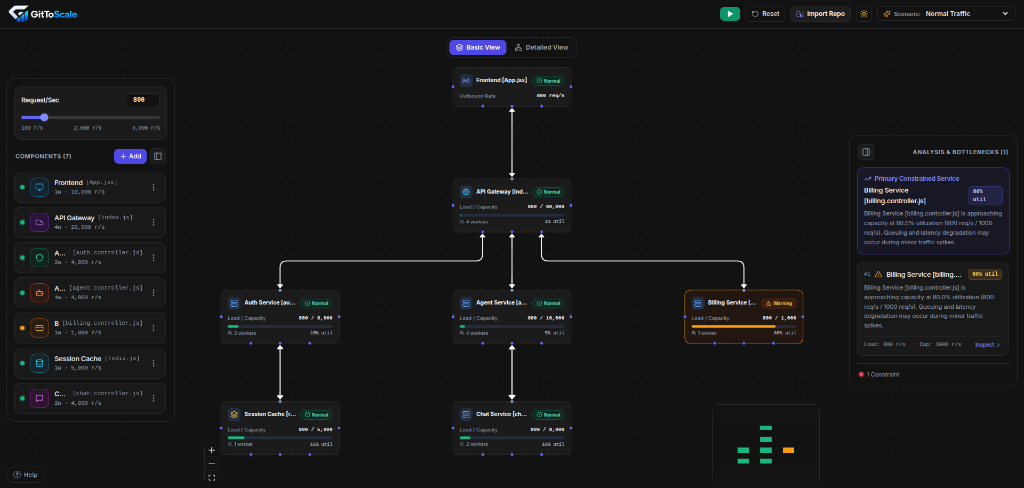
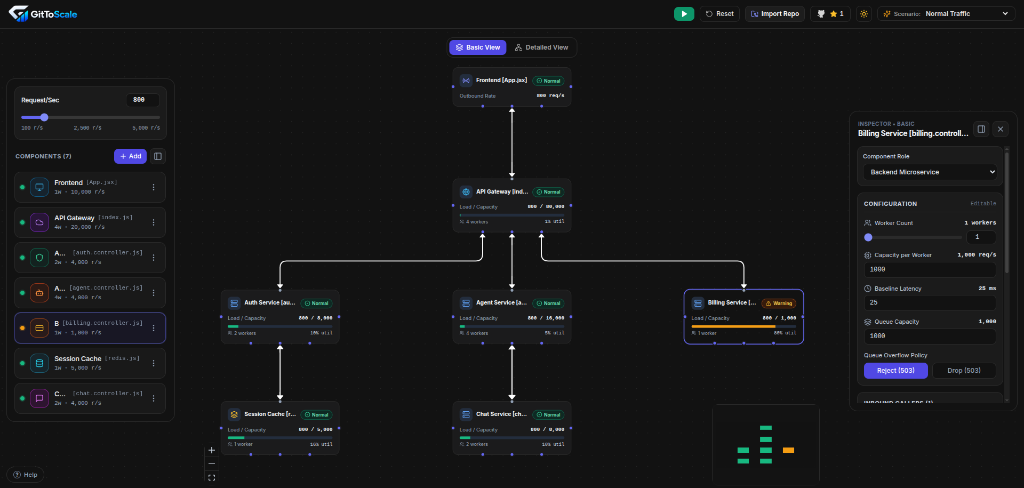
Refactor code structure for improved readability and maintainability

diff --git a/frontend/src/components/LandingPage.tsx b/frontend/src/components/LandingPage.tsx
@@ -15,6 +15,8 @@ import {
   Layers,
   ShieldCheck,
   Compass,
+  ChevronLeft,
+  ChevronRight,
 } from 'lucide-react';
 import { Fotter } from './Fotter';
 import { GitHubStarButton } from './GitHubStarButton';
@@ -189,32 +191,160 @@ function HeroDiagram() {
   );
 }
 
+const DEMO_SLIDES = [
+  {
+    id: 'basic',
+    label: 'Basic View',
+    tag: '7 Microservices',
+    url: 'gittoscale://demo/basic-view',
+    image: '/demo-basic.png',
+    description: 'Interactive microservice DAG with live flow rate propagation and worker capacity metrics',
+  },
+  {
+    id: 'detailed',
+    label: 'Detailed Fleet',
+    tag: '23 Services',
+    url: 'gittoscale://demo/detailed-fleet',
+    image: '/demo-detailed.png',
+    description: 'Multi-tier enterprise fleet with automated bottleneck ranking and queue overflow diagnosis',
+  },
+  {
+    id: 'import',
+    label: 'AI Ingestion',
+    tag: 'GitHub Scanner',
+    url: 'gittoscale://demo/ai-repo-scanner',
+    image: '/demo-import.png',
+    description: 'AI-assisted architecture extraction directly from GitHub repositories into simulation nodes',
+  },
+];
+
 function Demo({ onLaunch }: { onLaunch: () => void }) {
+  const [activeSlide, setActiveSlide] = useState(0);
+  const current = DEMO_SLIDES[activeSlide];
+
+  const handlePrev = (e: React.MouseEvent) => {
+    e.stopPropagation();
+    setActiveSlide((prev) => (prev === 0 ? DEMO_SLIDES.length - 1 : prev - 1));
+  };
+
+  const handleNext = (e: React.MouseEvent) => {
+    e.stopPropagation();
+    setActiveSlide((prev) => (prev === DEMO_SLIDES.length - 1 ? 0 : prev + 1));
+  };
+
   return (
-    <div
-      onClick={onLaunch}
-      className="relative w-full aspect-video overflow-hidden cursor-pointer group"
-    >
-      <img
-        src="/demo-preview.png"
-        alt="GitToScale simulator preview"
-        className="w-full h-full object-cover object-top select-none"
-        draggable={false}
-      />
-      <div className="absolute inset-0 bg-gradient-to-t from-black/40 via-transparent to-transparent pointer-events-none" />
-      <div className="absolute inset-0 bg-black/0 group-hover:bg-black/35 transition-colors duration-300 flex items-center justify-center pointer-events-none">
-        <motion.div
-          animate={{ scale: [1, 1.07, 1] }}
-          transition={{ repeat: Infinity, duration: 2.4, ease: 'easeInOut' }}
-          className="opacity-0 group-hover:opacity-100 transition-opacity duration-300 flex h-16 w-16 items-center justify-center rounded-full bg-white/90 shadow-xl"
-        >
-          <Play className="ml-1 h-7 w-7 fill-slate-900 text-slate-900" />
-        </motion.div>
+    <div className="w-full flex flex-col bg-white dark:bg-[#121214]">
+      {/* Top Controls & View Switcher */}
+      <div className="flex flex-wrap items-center justify-between border-b border-slate-200 dark:border-neutral-800 bg-slate-50/90 dark:bg-[#0A0A0A]/90 px-4 py-2.5 gap-2">
+        {/* macOS Dots + Dynamic URL */}
+        <div className="flex items-center gap-2 min-w-0">
+          <div className="flex items-center gap-1.5 shrink-0">
+            <span className="h-3 w-3 rounded-full bg-rose-500/80" />
+            <span className="h-3 w-3 rounded-full bg-amber-500/80" />
+            <span className="h-3 w-3 rounded-full bg-emerald-500/80" />
+          </div>
+          <span className="ml-2 font-mono text-xs text-slate-500 dark:text-neutral-400 truncate hidden md:inline">
+            {current.url}
+          </span>
+        </div>
+
+        {/* View Switcher Tabs */}
+        <div className="flex items-center gap-1.5 p-0.5 rounded-lg bg-slate-200/60 dark:bg-neutral-900 border border-slate-200/80 dark:border-neutral-800 shrink-0">
+          {DEMO_SLIDES.map((slide, idx) => (
+            <button
+              key={slide.id}
+              type="button"
+              onClick={() => setActiveSlide(idx)}
+              className={`px-3 py-1 rounded-md text-xs font-semibold transition-all cursor-pointer ${
+                activeSlide === idx
+                  ? 'bg-white text-slate-900 shadow-xs dark:bg-[#1e1e22] dark:text-white'
+                  : 'text-slate-600 hover:text-slate-900 dark:text-neutral-400 dark:hover:text-white'
+              }`}
+            >
+              {slide.label}
+            </button>
+          ))}
+        </div>
       </div>
-      <div className="absolute bottom-4 left-0 right-0 flex justify-center opacity-0 group-hover:opacity-100 transition-opacity duration-300 pointer-events-none">
-        <span className="px-3 py-1 rounded-full bg-black/60 text-white text-xs font-medium tracking-wide">
-          Launch interactive simulator
-        </span>
+
+      {/* Main High-Resolution Image Display (Non-Video) */}
+      <div
+        onClick={onLaunch}
+        className="relative w-full overflow-hidden bg-slate-950 cursor-pointer group"
+      >
+        <AnimatePresence mode="wait">
+          <motion.img
+            key={current.id}
+            src={current.image}
+            alt={current.label}
+            initial={{ opacity: 0 }}
+            animate={{ opacity: 1 }}
+            exit={{ opacity: 0 }}
+            transition={{ duration: 0.22 }}
+            className="w-full h-auto block select-none"
+            draggable={false}
+          />
+        </AnimatePresence>
+
+        {/* Previous / Next Arrow Controls */}
+        <button
+          type="button"
+          onClick={handlePrev}
+          aria-label="Previous image"
+          className="absolute left-3 top-1/2 -translate-y-1/2 p-2 rounded-full bg-black/50 hover:bg-black/75 text-white/90 hover:text-white backdrop-blur-sm transition-all opacity-0 group-hover:opacity-100 shadow-md cursor-pointer"
+        >
+          <ChevronLeft className="w-5 h-5" />
+        </button>
+        <button
+          type="button"
+          onClick={handleNext}
+          aria-label="Next image"
+          className="absolute right-3 top-1/2 -translate-y-1/2 p-2 rounded-full bg-black/50 hover:bg-black/75 text-white/90 hover:text-white backdrop-blur-sm transition-all opacity-0 group-hover:opacity-100 shadow-md cursor-pointer"
+        >
+          <ChevronRight className="w-5 h-5" />
+        </button>
+
+        {/* Subtle hover prompt */}
+        <div className="absolute top-3 right-3 opacity-0 group-hover:opacity-100 transition-opacity duration-200 pointer-events-none">
+          <span className="px-2.5 py-1 rounded-md bg-black/60 backdrop-blur-sm text-white/90 text-[11px] font-medium">
+            Click to launch live simulator
+          </span>
+        </div>
+      </div>
+
+      {/* Image Caption & Indicator Footer */}
+      <div className="flex flex-col sm:flex-row items-center justify-between gap-3 border-t border-slate-200 dark:border-neutral-800 bg-slate-50/80 dark:bg-[#0A0A0A]/80 px-4 py-3 text-xs">
+        <div className="flex items-center gap-2 text-slate-600 dark:text-neutral-300 min-w-0">
+          <span className="font-semibold text-slate-900 dark:text-white shrink-0">
+            {current.label}
+          </span>
+          <span className="text-slate-400 dark:text-neutral-500 hidden sm:inline">·</span>
+          <span className="truncate text-slate-500 dark:text-neutral-400">
+            {current.description}
+          </span>
+        </div>
+
+        {/* Slide Indicator Dots & Counter */}
+        <div className="flex items-center gap-3 shrink-0">
+          <div className="flex items-center gap-1.5">
+            {DEMO_SLIDES.map((_, idx) => (
+              <button
+                key={idx}
+                type="button"
+                onClick={() => setActiveSlide(idx)}
+                aria-label={`Switch to slide ${idx + 1}`}
+                className={`h-2 rounded-full transition-all cursor-pointer ${
+                  activeSlide === idx
+                    ? 'w-6 bg-slate-900 dark:bg-white'
+                    : 'w-2 bg-slate-300 hover:bg-slate-400 dark:bg-neutral-700 dark:hover:bg-neutral-600'
+                }`}
+              />
+            ))}
+          </div>
+          <span className="font-mono text-[11px] text-slate-400 dark:text-neutral-500">
+            {activeSlide + 1} / {DEMO_SLIDES.length}
+          </span>
+        </div>
       </div>
     </div>
   );
@@ -431,15 +561,6 @@ export const LandingPage: React.FC<LandingPageProps> = ({
           </div>
 
           <div className="overflow-hidden rounded-2xl border border-slate-200 dark:border-neutral-800 bg-white dark:bg-[#121214] shadow-2xl">
-            {/* macOS Chrome Bar */}
-            <div className="flex items-center gap-2 border-b border-slate-200 dark:border-neutral-800 px-4 py-3 bg-slate-50/80 dark:bg-[#0A0A0A]/80">
-              <span className="h-3 w-3 rounded-full bg-rose-500/80" />
-              <span className="h-3 w-3 rounded-full bg-amber-500/80" />
-              <span className="h-3 w-3 rounded-full bg-emerald-500/80" />
-              <span className="ml-3 font-mono text-xs text-slate-500 dark:text-neutral-400">
-                gittoscale://demo
-              </span>
-            </div>
             <Demo onLaunch={onSelectTestSite} />
           </div>
         </motion.div>

diff --git a/frontend/src/components/GitHubStarButton.tsx b/frontend/src/components/GitHubStarButton.tsx
@@ -1,5 +1,5 @@
 import React, { useState, useEffect } from 'react';
-import { Github } from 'lucide-react';
+import { Github, Star } from 'lucide-react';
 
 /**
  * Props for the GitHubStarButton component.
@@ -12,7 +12,7 @@ export interface GitHubStarButtonProps {
 }
 
 /**
- * Minimalist GitHub star button displaying only the official GitHub logo and live repository star count.
+ * Minimalist GitHub button displaying the official GitHub logo, a yellow star icon, and the repository star count.
  */
 export const GitHubStarButton: React.FC<GitHubStarButtonProps> = ({
   repo = 'Rohit0265/gittoscale',
@@ -51,8 +51,13 @@ export const GitHubStarButton: React.FC<GitHubStarButtonProps> = ({
       aria-label="Star repository on GitHub"
     >
       <Github className="w-4 h-4 fill-current shrink-0" />
-      <span className="whitespace-nowrap">
-        {stars !== null ? `${stars} ${stars === 1 ? 'star' : 'stars'}` : 'Stars'}
+      <span className="inline-flex items-center gap-1">
+        <Star className="w-3.5 h-3.5 text-amber-400 fill-amber-400 shrink-0" />
+        {stars !== null && (
+          <span className="font-semibold text-xs tabular-nums text-slate-800 dark:text-neutral-200">
+            {stars}
+          </span>
+        )}
       </span>
     </a>
   );

diff --git a/backend/src/routes/feedback.ts b/backend/src/routes/feedback.ts
@@ -67,7 +67,7 @@ export async function sendTelegramNotification(feedback: FeedbackItem): Promise<
     `<b>🏷 Type:</b> ${categoryEmoji}`,
     ``,
     `<b>💬 Message:</b>`,
-    `<blockquote>${escapeTelegramHtml(feedback.message)}</blockquote>`,
+    `<pre>${escapeTelegramHtml(feedback.message)}</pre>`,
     ``,
     `<i>🕒 ${timestamp}</i>`,
   ].join('\n');
